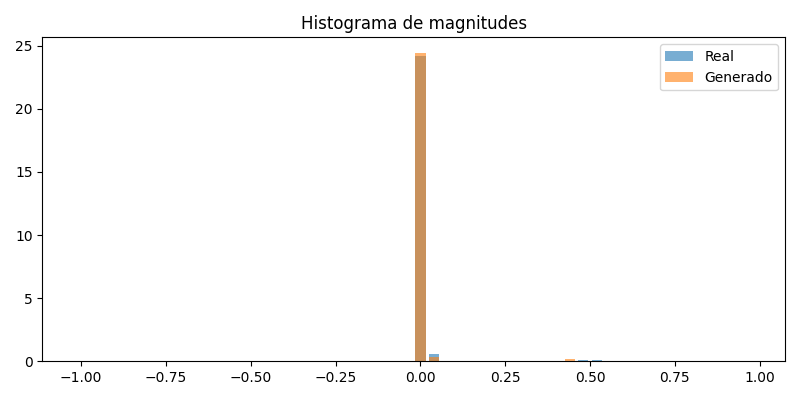
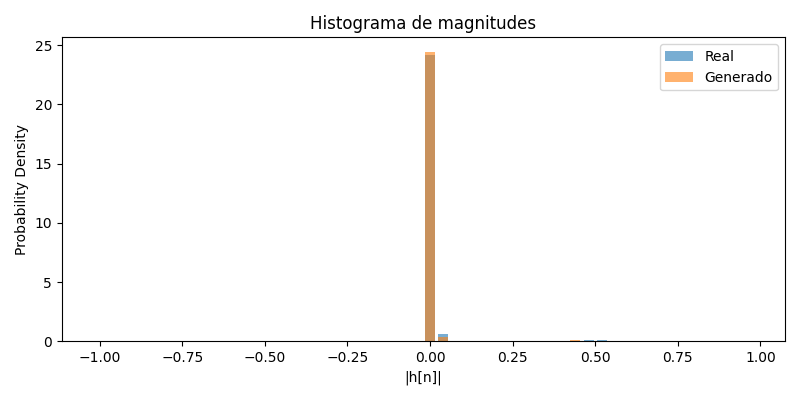
resultados evaluaciones

diff --git a/evaluation.py b/evaluation.py
@@ -6,10 +6,13 @@ import matplotlib.pyplot as plt
 from scipy.signal import welch
 from scipy.stats import ttest_ind
 
-#from train_Diffusion_Model import UNet1D, DDPM
+from train_Diffusion_Model import UNet1D, DDPM
 #from train_GAN_Conv1D import Generator
-from train_DCGAN_Conv1D import Generator
-#from train_WGAN import Generator
+#from train_DCGAN_Conv1D import Generator
+from train_WGAN import Generator
+
+def to_db(x, eps=1e-10):
+    return 10 * np.log10(np.maximum(x, eps))
 
 def compute_energy(signals):
     """Energía total de cada señal"""
@@ -40,12 +43,12 @@ def compute_pdp(signals):
     power = np.abs(signals) ** 2
     return np.mean(power, axis=0)
 
-def compute_average_delay(signals):
+def compute_average_delay(signals, delta_tau=1.0):
     """
     Average delay por señal y luego promedio global.
     """
     N, L = signals.shape
-    delays = np.arange(L)
+    delays = np.arange(L) * delta_tau
     avg_delays = []
     for s in signals:
         power = np.abs(s) ** 2
@@ -56,12 +59,12 @@ def compute_average_delay(signals):
     avg_delays = np.array(avg_delays)
     return np.mean(avg_delays), avg_delays
 
-def compute_rms_delay_spread(signals):
+def compute_rms_delay_spread(signals, delta_tau=1.0):
     """
     RMS delay spread por señal y luego promedio global.
     """
     N, L = signals.shape
-    delays = np.arange(L)
+    delays = np.arange(L) * delta_tau
     rms_values = []
     for s in signals:
         power = np.abs(s) ** 2
@@ -69,13 +72,9 @@ def compute_rms_delay_spread(signals):
         mean_delay = np.sum(delays * power) / total_power
         rms = np.sqrt(np.sum(power * (delays - mean_delay) ** 2) / total_power)
         rms_values.append(rms)
+
     rms_values = np.array(rms_values)
     return np.mean(rms_values), rms_values
-
-    avg_delay = compute_average_delay(signals)
-    num = np.sum(power * (delays - avg_delay) ** 2)
-    den = np.sum(power) + 1e-12
-    return np.sqrt(num / den)
 
 def compute_psd(signals, fs=1.0):
     """PSD promedio de las señales"""
@@ -89,7 +88,7 @@ def compute_psd(signals, fs=1.0):
 def mae(a, b):
     return np.mean(np.abs(a - b))
 
-def evaluate_metrics(real, fake):
+def evaluate_metrics(real, fake, delta_tau=1.0):
     """Calcula todas las métricas y devuelve un diccionario con resultados y datos para gráficas."""
     metrics = {}
 
@@ -97,15 +96,25 @@ def evaluate_metrics(real, fake):
     metrics['pdp_real'] = compute_pdp(real)
     metrics['pdp_fake'] = compute_pdp(fake)
     metrics['pdp_mae'] = mae(metrics['pdp_real'], metrics['pdp_fake'])
-    # Average delay por señal
-    metrics['avg_real'], metrics['avg_real_all'] = compute_average_delay(real)
-    metrics['avg_fake'], metrics['avg_fake_all'] = compute_average_delay(fake)
-    metrics['avg_delay_mae'] = abs(metrics['avg_real'] - metrics['avg_fake'])
-    # RMS delay spread por señal
-    metrics['rms_real'], metrics['rms_real_all'] = compute_rms_delay_spread(real)
-    metrics['rms_fake'], metrics['rms_fake_all'] = compute_rms_delay_spread(fake)
-    metrics['rms_mae'] = abs(metrics['rms_real'] - metrics['rms_fake'])
+    metrics['pdp_real_db'] = to_db(metrics['pdp_real'])
+    metrics['pdp_fake_db'] = to_db(metrics['pdp_fake'])
 
+    mask = metrics['pdp_real'] > 1e-6  # o equivalente en potencia
+    metrics['pdp_mae_db'] = np.mean(
+        np.abs(metrics['pdp_real_db'][mask] - metrics['pdp_fake_db'][mask])
+    )
+
+    # Average delay por señal
+    metrics['avg_real'], metrics['avg_real_all'] = compute_average_delay(real, delta_tau)
+    metrics['avg_fake'], metrics['avg_fake_all'] = compute_average_delay(fake, delta_tau)
+    metrics['avg_delay_mae'] = abs(metrics['avg_real'] - metrics['avg_fake'])
+    metrics['avg_delay_mae_ns'] = metrics['avg_delay_mae'] * 1e9
+
+    # RMS delay spread por señal
+    metrics['rms_real'], metrics['rms_real_all'] = compute_rms_delay_spread(real, delta_tau)
+    metrics['rms_fake'], metrics['rms_fake_all'] = compute_rms_delay_spread(fake, delta_tau)
+    metrics['rms_mae'] = abs(metrics['rms_real'] - metrics['rms_fake'])
+    metrics['rms_mae_ns'] = metrics['rms_mae'] * 1e9
     # T-Test Student
     t_stat, t_pvalue = ttest_ind(
         metrics['rms_real_all'],
@@ -141,7 +150,12 @@ def evaluate_metrics(real, fake):
     metrics['psd_fake'], _ = compute_psd(fake)
     metrics['psd_mae'] = mae(metrics['psd_real'], metrics['psd_fake'])
 
+    metrics['psd_real_db'] = to_db(metrics['psd_real'])
+    metrics['psd_fake_db'] = to_db(metrics['psd_fake'])
+    metrics['psd_mae_db'] = mae(metrics['psd_real_db'], metrics['psd_fake_db'])
+
     return metrics
+
 
 def generate_signals(model_type, model_checkpoint, num_samples,
                      device, z_dim=32, L=128, ddpm_steps=1000):
@@ -205,9 +219,9 @@ def generate_signals(model_type, model_checkpoint, num_samples,
 
                 # ecuación de muestreo DDPM (simplificada)
                 x = (
-                    (1 / torch.sqrt(1-beta)) *
-                    (x - beta / torch.sqrt(1 - ddpm.alphas_cumprod[t]) * noise_pred)
-                    + torch.sqrt(beta) * z
+                        (1 / torch.sqrt(1 - beta)) *
+                        (x - beta / torch.sqrt(1 - ddpm.alphas_cumprod[t]) * noise_pred)
+                        + torch.sqrt(beta) * z
                 )
             # guardar señal final x_0
             x0 = x
@@ -232,33 +246,47 @@ def main(args):
 
     print(f"\n=== Generando señales con {args.model_type.upper()} ===")
     fake_eval = generate_signals(
-        args.model_type,args.model, args.num_eval,args.device,
-        z_dim=args.z_dim, L=args.L,ddpm_steps=args.ddpm_steps
+        args.model_type, args.model, args.num_eval, args.device,
+        z_dim=args.z_dim, L=args.L, ddpm_steps=args.ddpm_steps
     )
     print("Señales generadas:", fake_eval.shape)
 
-    real_eval_complex = real_eval[:,0,:] + 1j * real_eval[:,1,:]
-    fake_eval_complex = fake_eval[:,0,:] + 1j * fake_eval[:,1,:]
+    real_eval_complex = real_eval[:, 0, :] + 1j * real_eval[:, 1, :]
+    fake_eval_complex = fake_eval[:, 0, :] + 1j * fake_eval[:, 1, :]
     real_mag = np.abs(real_eval_complex)
     fake_mag = np.abs(fake_eval_complex)
 
     # calcular métricas
-    metrics = evaluate_metrics(real_mag, fake_mag)
+    metrics = evaluate_metrics(real_mag, fake_mag, delta_tau=args.delta_tau)
 
     print("\n--- RESULTADOS ---")
-    for key in ['pdp_mae', 'avg_delay_mae', 'rms_mae',
-                'std_mae', 'autocorr_mae', 'psd_mae']:
-        print(f"{key}: {metrics[key]:.6f}")
+    for key in ['pdp_mae', 'pdp_mae_db',
+                'avg_delay_mae_ns', 'rms_mae_ns',
+                'std_mae', 'autocorr_mae',
+                'psd_mae', 'psd_mae_db']:
+        if key in ['avg_delay_mae_ns', 'rms_mae_ns']:
+            print(f"{key}: {metrics[key]:.3f} ns")
+
+        elif key == 'pdp_mae_db':
+            print(f"{key}: {metrics[key]:.3f} dB")
+
+        elif key == 'psd_mae_db':
+            print(f"{key}: {metrics[key]:.3f} dB/Hz")
+
+        else:
+            print(f"{key}: {metrics[key]:.6f}")
+
+    ns = 1e9
 
     print("\n--- MÉTRICAS REALES ---")
-    print(f"Avg delay real: {metrics['avg_real']:.6f}")
-    print(f"RMS delay real: {metrics['rms_real']:.6f}")
-    print(f"Mean PSD real: {np.mean(metrics['psd_real']):.6f}")
+    print(f"Avg delay real: {metrics['avg_real'] * ns:.3f} ns")
+    print(f"RMS delay real: {metrics['rms_real'] * ns:.3f} ns")
+    print(f"Mean PSD real: {np.mean(metrics['psd_real_db']):.3f} dB/Hz")
 
     print("\n--- MÉTRICAS GENERADAS ---")
-    print(f"Avg delay fake: {metrics['avg_fake']:.6f}")
-    print(f"RMS delay fake: {metrics['rms_fake']:.6f}")
-    print(f"Mean PSD fake: {np.mean(metrics['psd_fake']):.6f}")
+    print(f"Avg delay fake: {metrics['avg_fake'] * ns:.3f} ns")
+    print(f"RMS delay fake: {metrics['rms_fake'] * ns:.3f} ns")
+    print(f"Mean PSD fake: {np.mean(metrics['psd_fake_db']):.3f} dB/Hz")
 
     # Guardar resultados
     os.makedirs(args.save_dir, exist_ok=True)
@@ -266,11 +294,13 @@ def main(args):
 
     scalar_keys = [
         'pdp_mae',
-        'avg_delay_mae',
-        'rms_mae',
+        'pdp_mae_db',
+        'avg_delay_mae_ns',
+        'rms_mae_ns',
         'std_mae',
         'autocorr_mae',
         'psd_mae',
+        'psd_mae_db',
     ]
 
     txt_path = os.path.join(args.save_dir, "metrics.txt")
@@ -291,7 +321,14 @@ def main(args):
         # Métricas globales comparación
         f.write("---- METRICAS GLOBALES ----\n")
         for k in scalar_keys:
-            f.write(f"{k}: {metrics[k]:.6f}\n")
+            if k in ['avg_delay_mae_ns', 'rms_mae_ns']:
+                f.write(f"{k}: {metrics[k]:.3f} ns\n")
+            elif k == 'pdp_mae_db':
+                f.write(f"{k}: {metrics[k]:.3f} dB\n")
+            elif k == 'psd_mae_db':
+                f.write(f"{k}: {metrics[k]:.3f} dB/Hz\n")
+            else:
+                f.write(f"{k}: {metrics[k]:.6f}\n")
 
         f.write("\n---- STATISTICAL TESTS ----\n")
         f.write(f"RMS t-test statistic: {metrics['rms_t_stat']:.6f}\n")
@@ -303,25 +340,18 @@ def main(args):
 
         # Estadísticas REALES
         f.write("---- REAL CHANNEL STATS ----\n")
-        f.write(f"Avg delay real: {metrics['avg_real']:.6f}\n")
-        f.write(f"RMS delay real: {metrics['rms_real']:.6f}\n")
-        f.write(f"Mean PSD real: {np.mean(metrics['psd_real']):.6f}\n")
+        f.write(f"Avg delay real: {metrics['avg_real'] * 1e9:.3f} ns\n")
+        f.write(f"RMS delay real: {metrics['rms_real'] * 1e9:.3f} ns\n")
+        f.write(f"Mean PSD real: {np.mean(metrics['psd_real_db']):.3f} dB/Hz\n")
 
         f.write("\n")
 
         # Estadísticas GENERADAS
         f.write("---- GENERATED CHANNEL STATS ----\n")
-        f.write(f"Avg delay fake: {metrics['avg_fake']:.6f}\n")
-        f.write(f"RMS delay fake: {metrics['rms_fake']:.6f}\n")
-        f.write(f"Mean PSD fake: {np.mean(metrics['psd_fake']):.6f}\n")
-
+        f.write(f"Avg delay fake: {metrics['avg_fake'] * 1e9:.3f} ns\n")
+        f.write(f"RMS delay fake: {metrics['rms_fake'] * 1e9:.3f} ns\n")
+        f.write(f"Mean PSD fake: {np.mean(metrics['psd_fake_db']):.3f} dB/Hz\n")
         f.write("\n")
-
-        # Diferencias directas
-        f.write("---- DIFFERENCES ----\n")
-        f.write(f"Avg delay diff: {abs(metrics['avg_real'] - metrics['avg_fake']):.6f}\n")
-        f.write(f"RMS delay diff: {abs(metrics['rms_real'] - metrics['rms_fake']):.6f}\n")
-        f.write(f"Mean PSD diff: {abs(np.mean(metrics['psd_real']) - np.mean(metrics['psd_fake'])):.6f}\n")
 
         f.write("\n---- STATISTICAL INTERPRETATION ----\n")
         f.write(
@@ -334,27 +364,33 @@ def main(args):
         )
     # Gráfico PDP
     plt.figure(figsize=(8, 4))
-    plt.plot(metrics['pdp_real'], label="Real")
-    plt.plot(metrics['pdp_fake'], label="Generado")
-    plt.title("PDP Real vs Generado")
+    delays = np.arange(len(metrics['pdp_real_db'])) * args.delta_tau * 1e9  # ns
+    plt.plot(delays, metrics['pdp_real_db'], label="Real")
+    plt.plot(delays, metrics['pdp_fake_db'], label="Generado")
+    plt.title("PDP (dB) Real vs Generado")
+    plt.xlabel("Delay (ns)")
+    plt.ylabel("Power (dB)")
     plt.legend()
     plt.tight_layout()
     plt.savefig(os.path.join(args.save_dir, 'pdp.png'))
 
     # Histograma de magnitudes
     plt.figure(figsize=(8, 4))
-    plt.bar(metrics['bins_real'],metrics['hist_real'],width=0.03, alpha=0.6, label="Real")
+    plt.bar(metrics['bins_real'], metrics['hist_real'], width=0.03, alpha=0.6, label="Real")
     plt.bar(metrics['bins_fake'], metrics['hist_fake'], width=0.03, alpha=0.6, label="Generado")
     plt.title("Histograma de magnitudes")
+    plt.xlabel("|h[n]|")
+    plt.ylabel("Probability Density")
     plt.legend()
     plt.tight_layout()
     plt.savefig(os.path.join(args.save_dir, 'histograma.png'))
 
     # Gráfico PSD
     plt.figure(figsize=(8, 4))
-    plt.semilogy(metrics['freqs'], metrics['psd_real'], label='Real')
-    plt.semilogy(metrics['freqs'],metrics['psd_fake'], label='Generado')
-    plt.title("PSD Real vs Generado")
+    plt.plot(metrics['freqs'], metrics['psd_real_db'], label='Real')
+    plt.plot(metrics['freqs'], metrics['psd_fake_db'], label='Generado')
+    plt.title("PSD (db/Hz) Real vs Generado")
+    plt.xlabel("Frequency (Hz)")
     plt.legend()
     plt.tight_layout()
     plt.savefig(os.path.join(args.save_dir, "psd.png"))
@@ -363,10 +399,11 @@ def main(args):
     num_plot = min(8, args.num_eval)
     plt.figure(figsize=(12, 6))
     for i in range(num_plot):
-        plt.subplot(4,2,i+1)
+        plt.subplot(4, 2, i + 1)
         plt.plot(real_mag[i], label='Real')
-        plt.plot(fake_mag[i], '--',label='Generado')
-        plt.xticks([]); plt.yticks([])
+        plt.plot(fake_mag[i], '--', label='Generado')
+        plt.xticks([]);
+        plt.yticks([])
     plt.suptitle(f"Comparación señales reales vs {args.model_type.upper()}")
     plt.legend(loc='upper right', fontsize=8)
     plt.tight_layout()
@@ -378,11 +415,12 @@ if __name__ == "__main__":
     parser.add_argument("--model", type=str, required=True)
     parser.add_argument("--model_type", type=str, choices=['dcgan', 'wgan', 'ddpm'], default='dcgan')
     parser.add_argument("--save_dir", type=str, default="eval_results")
-    parser.add_argument("--z_dim", type=int, default=128)
+    parser.add_argument("--z_dim", type=int, default=64)
     parser.add_argument("--L", type=int, default=128)
     parser.add_argument("--num_eval", type=int, default=500)
     parser.add_argument("--device", type=str, default="cpu")
     parser.add_argument("--ddpm_steps", type=int, default=1000)
+    parser.add_argument("--delta_tau", type=float, default=1e-9)  # segundos (ej: 1 ns)
     args = parser.parse_args()
 
     base_save_dir = "eval_results"

diff --git a/train_WGAN.py b/train_WGAN.py
@@ -189,13 +189,13 @@ if __name__ == "__main__":
     parser = argparse.ArgumentParser()
     parser.add_argument('--data', type=str, default='data/datos_sinteticos/dataset_synthetic.npy', help='Ruta del dataset .npy')
     parser.add_argument('--epochs', type=int, default=150, help='Número de épocas de entrenamiento')
-    parser.add_argument('--batch_size', type=int, default=128, help='Tamaño del batch')
+    parser.add_argument('--batch_size', type=int, default=64, help='Tamaño del batch')
     parser.add_argument('--z_dim', type=int, default=64, help='Dimensión del vector de ruido del generador')
-    parser.add_argument('--lr', type=float, default=5e-5, help='Learning rate (tasa de aprendizaje)')
+    parser.add_argument('--lr', type=float, default=1e-4, help='Learning rate (tasa de aprendizaje)')
     parser.add_argument('--n_critic', type=int, default=7,help='Número de updates del critic por update del generator')
-    parser.add_argument('--lambda_gp', type=float,default=15.0, help='Peso del gradient penalty')
+    parser.add_argument('--lambda_gp', type=float,default=5.0, help='Peso del gradient penalty')
     parser.add_argument('--patience', type=int, default=40,help='Paciencia para early stopping')
-    parser.add_argument('--min_delta', type=float,default=5e-4,help='Mejora mínima en Wasserstein distance')
+    parser.add_argument('--min_delta', type=float,default=1e-3,help='Mejora mínima en Wasserstein distance')
     parser.add_argument('--save_dir', type=str, default='checkpoints/WGAN_GP_Conv1D', help='Carpeta donde guardar checkpoints')
     parser.add_argument('--L', type=int, default=128, help='Longitud de las señales (número de muestras)')
 
